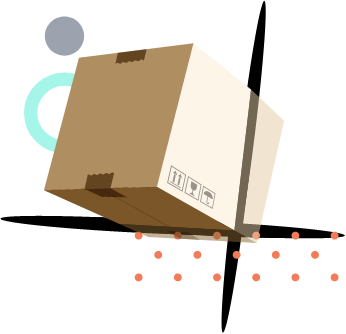
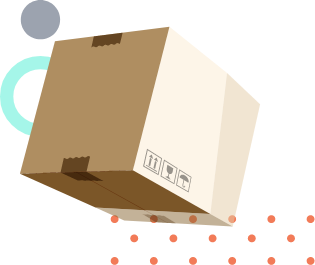
Ajustes AD

diff --git a/src/views/Actividad.vue b/src/views/Actividad.vue
@@ -17,10 +17,10 @@ export default {
   },
   data: () => ({
     cuestionario: {
-      tema: 'Fundamentos de la gestión y control de inventarios',
-      titulo: 'Cuestionario',
+      tema: 'Técnicas de exhibición de mercancía',
+      titulo: 'Principios y técnicas de exhibición de mercancía',
       introduccion:
-        '<b> Objetivo:</b> identificar los conocimientos previos del estudiante sobre la gestión, clasificación y control de inventarios.',
+        '<b> Objetivo:</b> identificar los conocimientos previos del estudiante sobre exhibición, promoción y manejo de mercancía en el punto de venta.',
       barajarPreguntas: true,
       titulo_aprobado: '¡BUEN TRABAJO!.',
       titulo_reprobado: 'VUELVA A INTENTARLO.',
@@ -28,7 +28,7 @@ export default {
         {
           id: 1,
           texto:
-            'La gestión de inventarios incluye almacenar, utilizar y vender productos.',
+            'La exhibición de mercancía busca llamar la atención del cliente.',
           imagen: require('@/assets/actividad/imagen1.png'),
           barajarRespuestas: true,
           opciones: [
@@ -50,8 +50,7 @@ export default {
         },
         {
           id: 2,
-          texto:
-            'El control de inventarios aumenta los costos de almacenamiento.',
+          texto: 'La exhibición no influye en la decisión de compra.',
           imagen: require('@/assets/actividad/imagen2.png'),
           barajarRespuestas: true,
           opciones: [
@@ -73,19 +72,19 @@ export default {
         },
         {
           id: 3,
-          texto: 'Las mercancías siempre son bienes que no se pueden vender.',
+          texto: 'El mobiliario ayuda a mejorar la experiencia de compra.',
           imagen: require('@/assets/actividad/imagen3.png'),
           barajarRespuestas: true,
           opciones: [
             {
               id: 'a',
               texto: 'Verdadero',
-              esCorrecta: false,
+              esCorrecta: true,
             },
             {
               id: 'b',
               texto: 'Falso',
-              esCorrecta: true,
+              esCorrecta: false,
             },
           ],
           mensaje_correcto:
@@ -95,20 +94,19 @@ export default {
         },
         {
           id: 4,
-          texto:
-            'Las mercancías deben satisfacer una necesidad del consumidor.',
+          texto: 'Los pasillos deben ser estrechos para ahorrar espacio.',
           imagen: require('@/assets/actividad/imagen4.png'),
           barajarRespuestas: true,
           opciones: [
             {
               id: 'a',
               texto: 'Verdadero',
-              esCorrecta: true,
+              esCorrecta: false,
             },
             {
               id: 'b',
               texto: 'Falso',
-              esCorrecta: false,
+              esCorrecta: true,
             },
           ],
           mensaje_correcto:
@@ -118,8 +116,7 @@ export default {
         },
         {
           id: 5,
-          texto:
-            'Las mercancías se pueden clasificar según su peso, volumen y fragilidad.',
+          texto: 'Los puntos calientes aumentan las ventas.',
           imagen: require('@/assets/actividad/imagen5.png'),
           barajarRespuestas: true,
           opciones: [
@@ -141,7 +138,7 @@ export default {
         },
         {
           id: 6,
-          texto: 'Los productos perecederos no se deterioran con el tiempo.',
+          texto: 'Los puntos fríos generan mayor rotación de productos.',
           imagen: require('@/assets/actividad/imagen6.png'),
           barajarRespuestas: true,
           opciones: [
@@ -163,19 +160,19 @@ export default {
         },
         {
           id: 7,
-          texto: 'Las mercancías peligrosas no representan ningún riesgo.',
+          texto: 'El planograma ayuda a organizar la ubicación de productos.',
           imagen: require('@/assets/actividad/imagen7.png'),
           barajarRespuestas: true,
           opciones: [
             {
               id: 'a',
               texto: 'Verdadero',
-              esCorrecta: false,
+              esCorrecta: true,
             },
             {
               id: 'b',
               texto: 'Falso',
-              esCorrecta: true,
+              esCorrecta: false,
             },
           ],
           mensaje_correcto:
@@ -185,19 +182,19 @@ export default {
         },
         {
           id: 8,
-          texto: 'El inventario es el recuento de productos en un almacén.',
+          texto: 'El planograma no influye en las ventas.',
           imagen: require('@/assets/actividad/imagen8.png'),
           barajarRespuestas: true,
           opciones: [
             {
               id: 'a',
               texto: 'Verdadero',
-              esCorrecta: true,
+              esCorrecta: false,
             },
             {
               id: 'b',
               texto: 'Falso',
-              esCorrecta: false,
+              esCorrecta: true,
             },
           ],
           mensaje_correcto:
@@ -208,19 +205,19 @@ export default {
         {
           id: 9,
           texto:
-            'El método <em>FIFO</em> significa “último en entrar, primero en salir”.',
+            'La exhibición vertical ubica productos en diferentes niveles.',
           imagen: require('@/assets/actividad/imagen9.png'),
           barajarRespuestas: true,
           opciones: [
             {
               id: 'a',
               texto: 'Verdadero',
-              esCorrecta: false,
+              esCorrecta: true,
             },
             {
               id: 'b',
               texto: 'Falso',
-              esCorrecta: true,
+              esCorrecta: false,
             },
           ],
           mensaje_correcto:
@@ -230,8 +227,7 @@ export default {
         },
         {
           id: 10,
-          texto:
-            'El método <em>LIFO</em> significa “último en entrar, primero en salir”.',
+          texto: 'La exhibición horizontal ubica productos en una sola línea.',
           imagen: require('@/assets/actividad/imagen10.png'),
           barajarRespuestas: true,
           opciones: [
@@ -253,7 +249,8 @@ export default {
         },
         {
           id: 11,
-          texto: 'El inventario permanente se actualiza continuamente.',
+          texto:
+            'El material <em>POP</em> sirve para reforzar la comunicación del producto.',
           imagen: require('@/assets/actividad/imagen1.png'),
           barajarRespuestas: true,
           opciones: [
@@ -275,7 +272,7 @@ export default {
         },
         {
           id: 12,
-          texto: 'El inventario periódico se realiza todos los días.',
+          texto: 'El rompetráfico no llama la atención del cliente.',
           imagen: require('@/assets/actividad/imagen2.png'),
           barajarRespuestas: true,
           opciones: [
@@ -298,19 +295,19 @@ export default {
         {
           id: 13,
           texto:
-            'El sistema <em>ABC</em> clasifica productos según su rotación.',
+            'El <em>floor print</em> se ubica en el techo del establecimiento.',
           imagen: require('@/assets/actividad/imagen3.png'),
           barajarRespuestas: true,
           opciones: [
             {
               id: 'a',
               texto: 'Verdadero',
-              esCorrecta: true,
+              esCorrecta: false,
             },
             {
               id: 'b',
               texto: 'Falso',
-              esCorrecta: false,
+              esCorrecta: true,
             },
           ],
           mensaje_correcto:
@@ -320,19 +317,19 @@ export default {
         },
         {
           id: 14,
-          texto: 'Los productos tipo A tienen baja rotación.',
+          texto: 'La punta de góndola es un lugar estratégico de exhibición.',
           imagen: require('@/assets/actividad/imagen4.png'),
           barajarRespuestas: true,
           opciones: [
             {
               id: 'a',
               texto: 'Verdadero',
-              esCorrecta: false,
+              esCorrecta: true,
             },
             {
               id: 'b',
               texto: 'Falso',
-              esCorrecta: true,
+              esCorrecta: false,
             },
           ],
           mensaje_correcto:
@@ -342,7 +339,8 @@ export default {
         },
         {
           id: 15,
-          texto: 'El <em>stock</em> influye en los costos de una empresa.',
+          texto:
+            'Los exhibidores temporales se usan para promociones o lanzamientos.',
           imagen: require('@/assets/actividad/imagen5.png'),
           barajarRespuestas: true,
           opciones: [
@@ -364,7 +362,7 @@ export default {
         },
         {
           id: 16,
-          texto: 'El inventario es considerado un activo de la empresa.',
+          texto: 'Los <em>banners</em> son publicidad digital.',
           imagen: require('@/assets/actividad/imagen6.png'),
           barajarRespuestas: true,
           opciones: [
@@ -386,7 +384,7 @@ export default {
         },
         {
           id: 17,
-          texto: 'El exceso de inventario puede generar problemas financieros.',
+          texto: 'Los banderines ayudan a atraer clientes al punto de venta.',
           imagen: require('@/assets/actividad/imagen7.png'),
           barajarRespuestas: true,
           opciones: [
@@ -408,19 +406,19 @@ export default {
         },
         {
           id: 18,
-          texto: 'El <em>picking</em> es el proceso de preparación de pedidos.',
+          texto: 'El plan promocional no necesita objetivos definidos.',
           imagen: require('@/assets/actividad/imagen8.png'),
           barajarRespuestas: true,
           opciones: [
             {
               id: 'a',
               texto: 'Verdadero',
-              esCorrecta: true,
+              esCorrecta: false,
             },
             {
               id: 'b',
               texto: 'Falso',
-              esCorrecta: false,
+              esCorrecta: true,
             },
           ],
           mensaje_correcto:
@@ -431,7 +429,7 @@ export default {
         {
           id: 19,
           texto:
-            'La inspección de mercancías permite verificar su estado y calidad.',
+            'Uno de los objetivos del plan promocional es aumentar ventas.',
           imagen: require('@/assets/actividad/imagen9.png'),
           barajarRespuestas: true,
           opciones: [
@@ -453,7 +451,7 @@ export default {
         },
         {
           id: 20,
-          texto: 'El código de barras no ayuda en el control de inventarios.',
+          texto: 'El reciclaje no es importante en los centros comerciales.',
           imagen: require('@/assets/actividad/imagen10.png'),
           barajarRespuestas: true,
           opciones: [